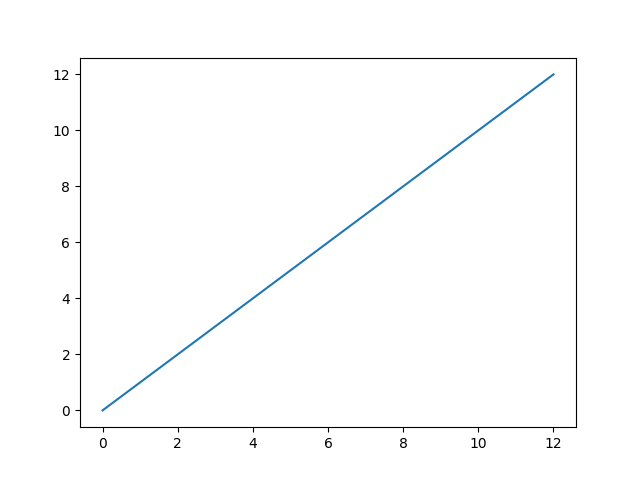
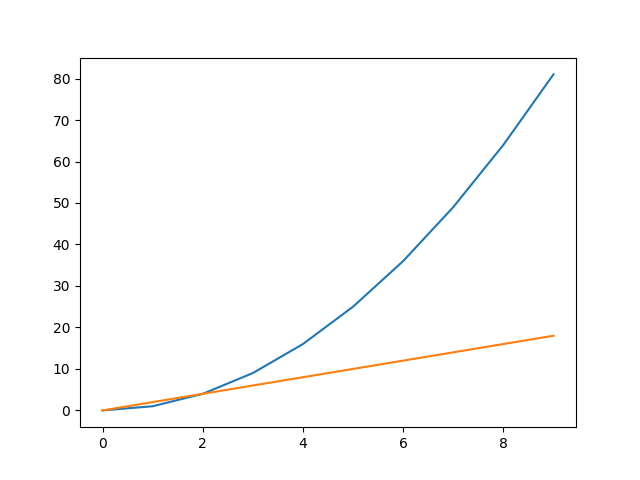
commit ok

diff --git a/Hello.py b/Hello.py
@@ -1,8 +1,15 @@
-import time
+import time as time
 import matplotlib.pyplot as plt
-
+import numpy as np
 
 print(time.time())
 
-plt.plot(range(13))
+a = []
+b = []
+for i in range(10):
+    a.append(i**2)
+    b.append(2*i)
+
+plt.plot(a)
+plt.plot(b)
 plt.savefig("test.png")
